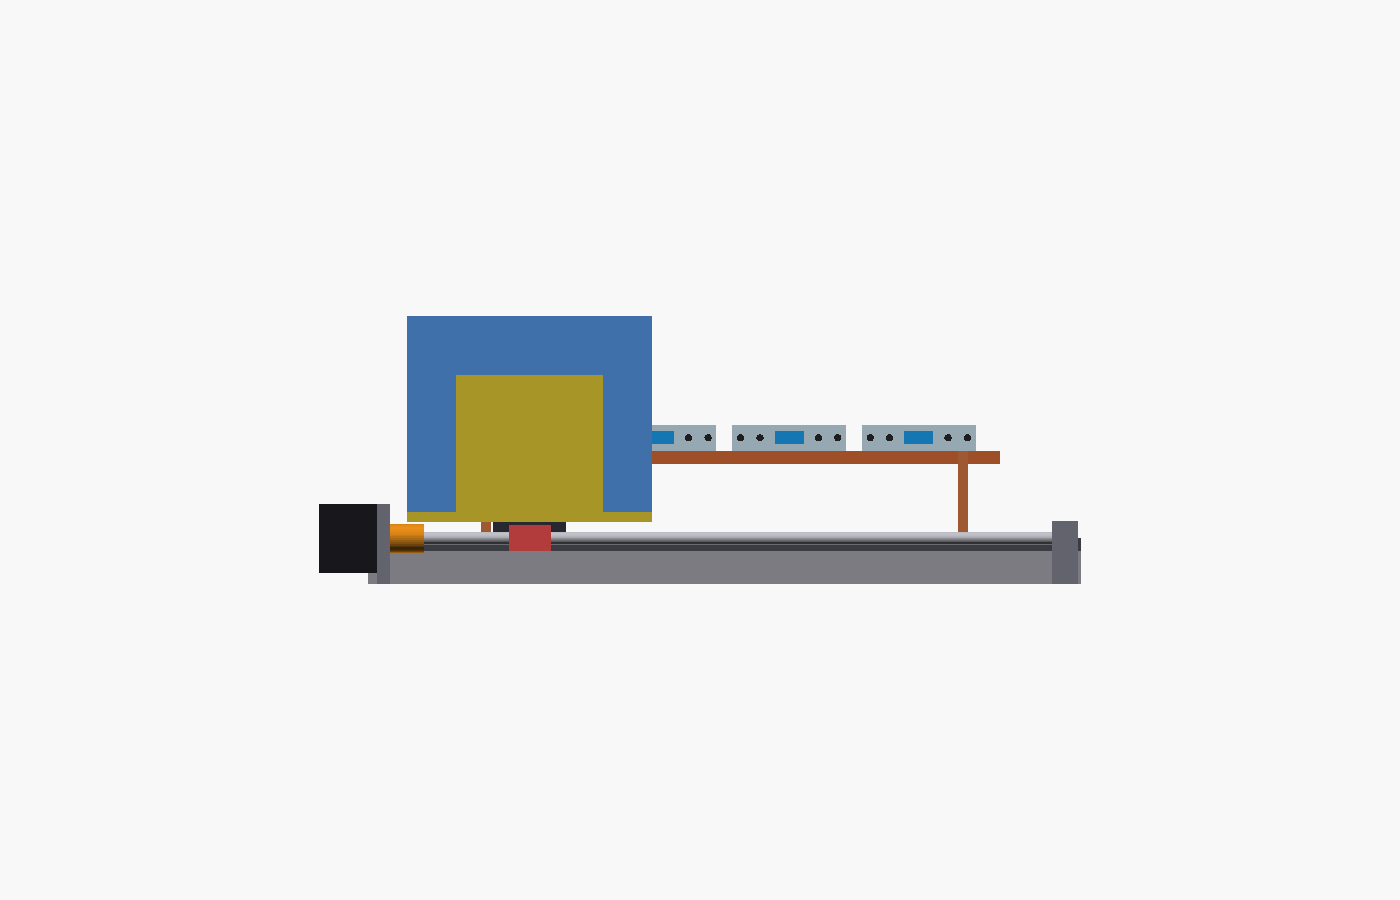
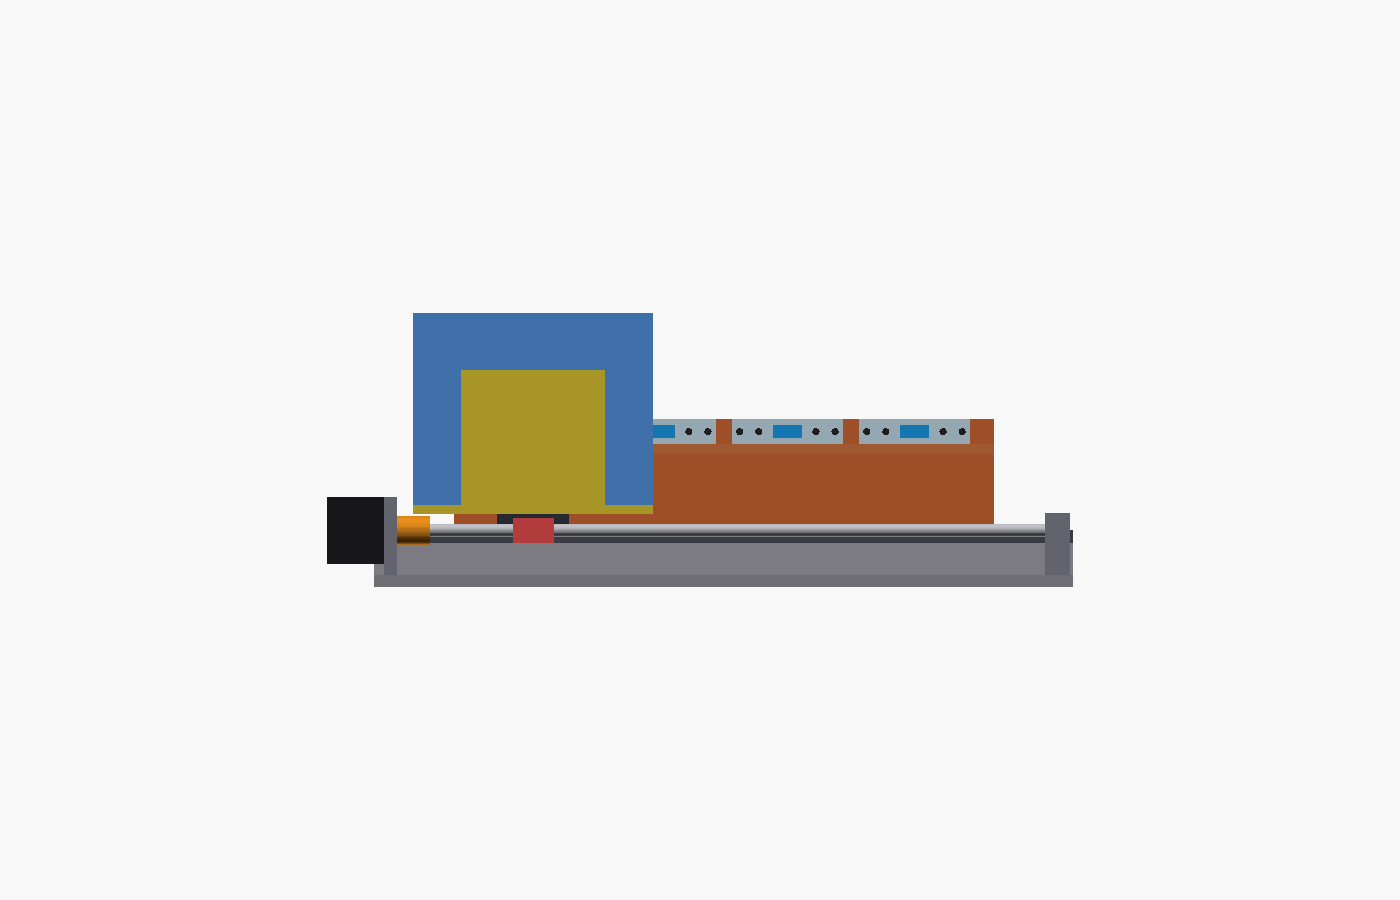
mount: correct concept — moving microscope on shared Grundplatte, fixed reactor row
Fix the mechanical concept per feedback: the rail is bound UNDER the mesoscope
so the microscope travels along a STATIONARY row of bioreactors. Rail (with the
moving microscope) and a fixed reactor stand both mount to one shared base plate
(Grundplatte), keeping optical-axis-to-sample distance fixed by construction.

SCAD: replace the cantilevered rack() with base_plate() (shared foundation) and
reactor_stand() (fixed shelf + back wall on the Grundplatte). Reactors no longer
ride the drive beam. Refresh both previews and rewrite the concept doc (§1 goal,
§3 shared-Grundplatte principle + diagram, §4 foundation row).

Changed region(s): [[0.215, 0.3422, 0.7986, 0.6533]]

diff --git a/docs/RAIL_MOUNT_CONCEPT.md b/docs/RAIL_MOUNT_CONCEPT.md
@@ -5,8 +5,10 @@
 > and carries it along a linear X-rail past a series of bioreactors.
 >
 > **Schematic massing draft:** `hardware/mount/openscad/rail_mount_mesoscope.scad`
-> (parametric block model — beam, MGN12 guide, tilted microscope, back-support
-> plate, NEMA17 + T8 leadscrew drive, and the reactor row). Previews:
+> (parametric block model — shared **base plate (Grundplatte)**, the rail beam +
+> MGN12 guide under the moving microscope, back-support plate, NEMA17 + T8
+> leadscrew drive, and a **fixed reactor stand** carrying the stationary reactor
+> row). Previews:
 > `rail_mount_preview.png` (3/4) and `rail_mount_top.png` (elevation). This is a
 > massing model to make the layout discussable, **not** print-ready geometry.
 >
@@ -29,12 +31,13 @@ imaging head** that scans a **row of bioreactors** arranged in series:
 
 - Lay the whole OpenFlexure microscope on its side (**90° tilt**), resting on the
   face of the **Z-axis motor**, so the **optical axis becomes horizontal**.
-- Mount it on a **carriage on a linear rail** running in **X** (90° to the optical
-  path).
-- At a defined working-distance offset along the optical axis, the **same mount**
-  carries a **frame ("Gerüst") holding the bioreactors in series** (also along X).
-- A **separate stepper drive** moves the carriage in X from bioreactor to
-  bioreactor; at each station the microscope images the sample.
+- Bind a **linear rail under the microscope** so it rides on a **carriage** in
+  **X** (90° to the optical path) — **only the microscope moves.**
+- On the **same base plate (Grundplatte)**, a **fixed stand** holds the
+  **bioreactors in a stationary row** at a working-distance offset along the
+  optical axis. The reactors do **not** move with the carriage.
+- A **separate stepper drive** moves the microscope carriage in X so it travels
+  **along the fixed row of reactors**; at each station it images the sample.
 
 This matches the system architecture diagram in the root `README.md`
 ("montiert auf Schlitten" / "Linearschiene" / "Antrieb/Motor" / Bioreaktoren #1…#n).
@@ -70,32 +73,36 @@ pre-tensioned for.
 
 ---
 
-## 3. Mechanical concept — one shared reference beam
+## 3. Mechanical concept — one shared base plate (Grundplatte)
 
-**Key principle:** the microscope carriage **and** the bioreactor rack are both
-mounted on **one rigid reference beam**. Because both are referenced to the same
-structure, the **optical-axis-to-sample distance is fixed by construction** and
-cannot drift; the row of reactors stays coplanar and parallel to the rail.
+**Key principle:** the **rail (with the moving microscope)** and the **fixed
+reactor stand** both mount to **one rigid base plate (Grundplatte)**. Because
+both are referenced to the same foundation, the **optical-axis-to-sample distance
+is fixed by construction** and cannot drift; the stationary row of reactors stays
+coplanar and parallel to the rail. **Only the microscope travels**; the reactors
+stand still and the imaging head drives along them.
 
 ```
-        (side view, gravity ↓)
+        (side view, gravity ↓)         reactors are FIXED, microscope moves ►
 
    ┌───────────┐                         ┌──────────────────────────┐
-   │ Microscope│  optical axis  ───►     │  Bioreactor rack (series)│
-   │ (tilted)  │═══════════════════════► │  [R1][R2][R3] … [Rn]     │
+   │ Microscope│  optical axis  ───►     │  Fixed reactor row (stand)│
+   │ (tilted)  │═══════════════════════► │  [R1][R2][R3] … [Rn]      │
    └────┬──────┘                         └───────────┬──────────────┘
-        │ MGN12 carriage                             │ fixed to same beam
-   ═════╪══════════════════════════════════════════════════════════════  ← rail X
-   ▓▓▓▓▓▓▓▓▓▓▓▓▓▓  aluminium extrusion (2040) = shared reference beam ▓▓▓▓▓▓▓▓
-                    ▲ NEMA17 + T8 leadscrew drives the carriage in X
+   ═════╪═══════ rail X (under microscope) ═══        │ fixed stand
+     ▲ MGN12 carriage + NEMA17/T8 drive               │
+   ▓▓▓▓▓▓▓▓▓▓▓▓▓▓▓▓▓▓  base plate (Grundplatte) = shared foundation ▓▓▓▓▓▓▓▓▓▓▓▓
 ```
 
-Two sub-assemblies of the printed mount:
-1. **Carriage adapter** — interfaces the tilted microscope body (Z-motor face +
-   an additional support) to the MGN12 carriage. Must resist the transverse
-   gravity moment (long lever arm of the Pi5 + AI HAT + camera + optics tower).
-2. **Bioreactor rack** — parametric frame that holds the reactors in series at
-   the correct height and spacing so each optical window lands on the optical axis.
+Sub-assemblies:
+1. **Rail + carriage adapter** — the linear rail is bound under the microscope;
+   the adapter interfaces the tilted microscope body (Z-motor face + an
+   additional support) to the MGN12 carriage. Must resist the transverse gravity
+   moment (long lever arm of the Pi5 + AI HAT + camera + optics tower).
+2. **Fixed reactor stand** — a stationary parametric holder rising from the
+   Grundplatte (back wall + shelf) that holds the reactors in series at the
+   correct height/spacing so each optical window lands on the optical axis. It is
+   **not** attached to the carriage or the rail beam.
 
 ---
 
@@ -105,7 +112,8 @@ Decision was left open ("Empfehlungen?"). Recommendation:
 
 | Element | Choice | Rationale |
 |---|---|---|
-| Structural beam | **2040 V-Slot aluminium extrusion** | Stiff, cheap, carries **both** carriage and reactor rack → common reference. |
+| Foundation | **Base plate (Grundplatte)** | Shared reference for the rail and the fixed reactor stand → fixed working distance. |
+| Structural beam | **2040 V-Slot aluminium extrusion** | Stiff, cheap; carries the rail under the microscope, mounted on the Grundplatte. |
 | Guide | **MGN12 profile rail + carriage** | Low play / high stiffness for the cantilevered microscope mass; clean mounting hole pattern. |
 | Drive | **NEMA17 + T8 leadscrew (anti-backlash nut)** | Self-locking → holds position at each stop without current; no backlash for step-and-image. |
 | Alt. drive | GT2 belt + NEMA17 | Faster, but slight backlash; only if scan speed matters more than repeatability. |
